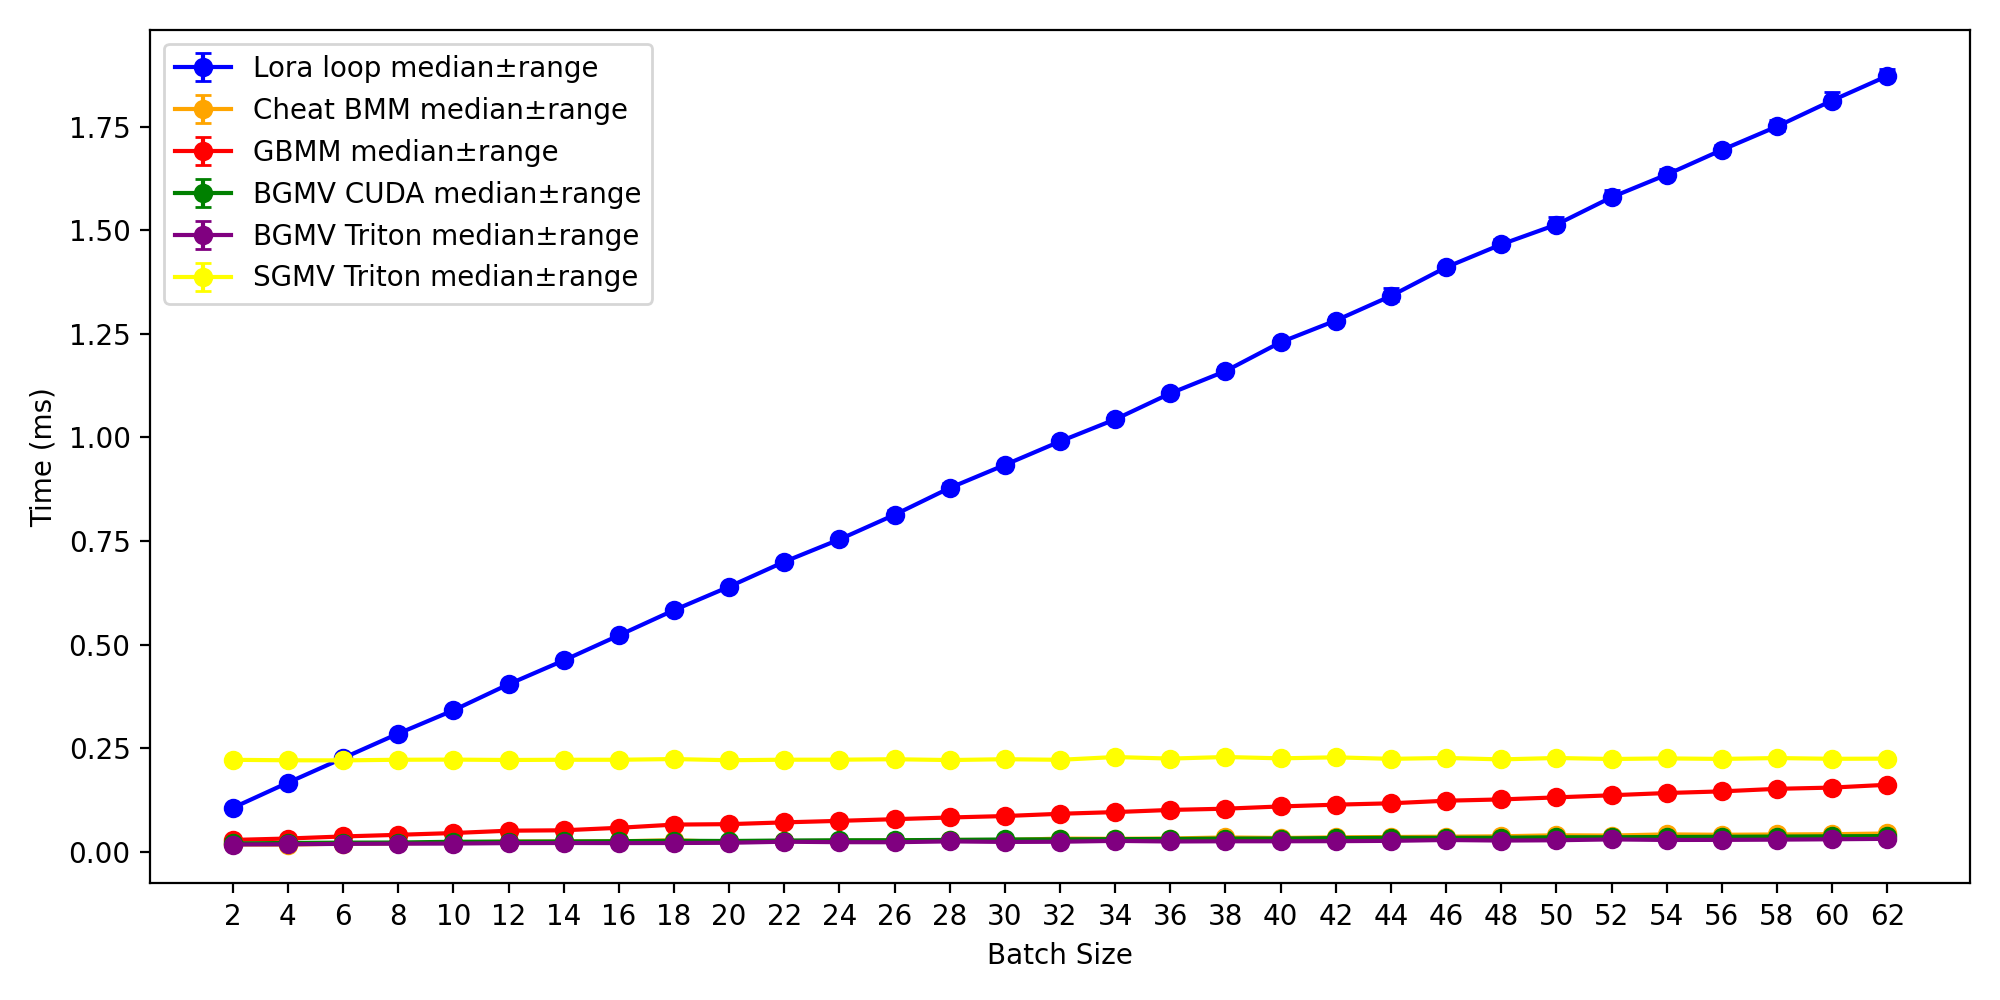
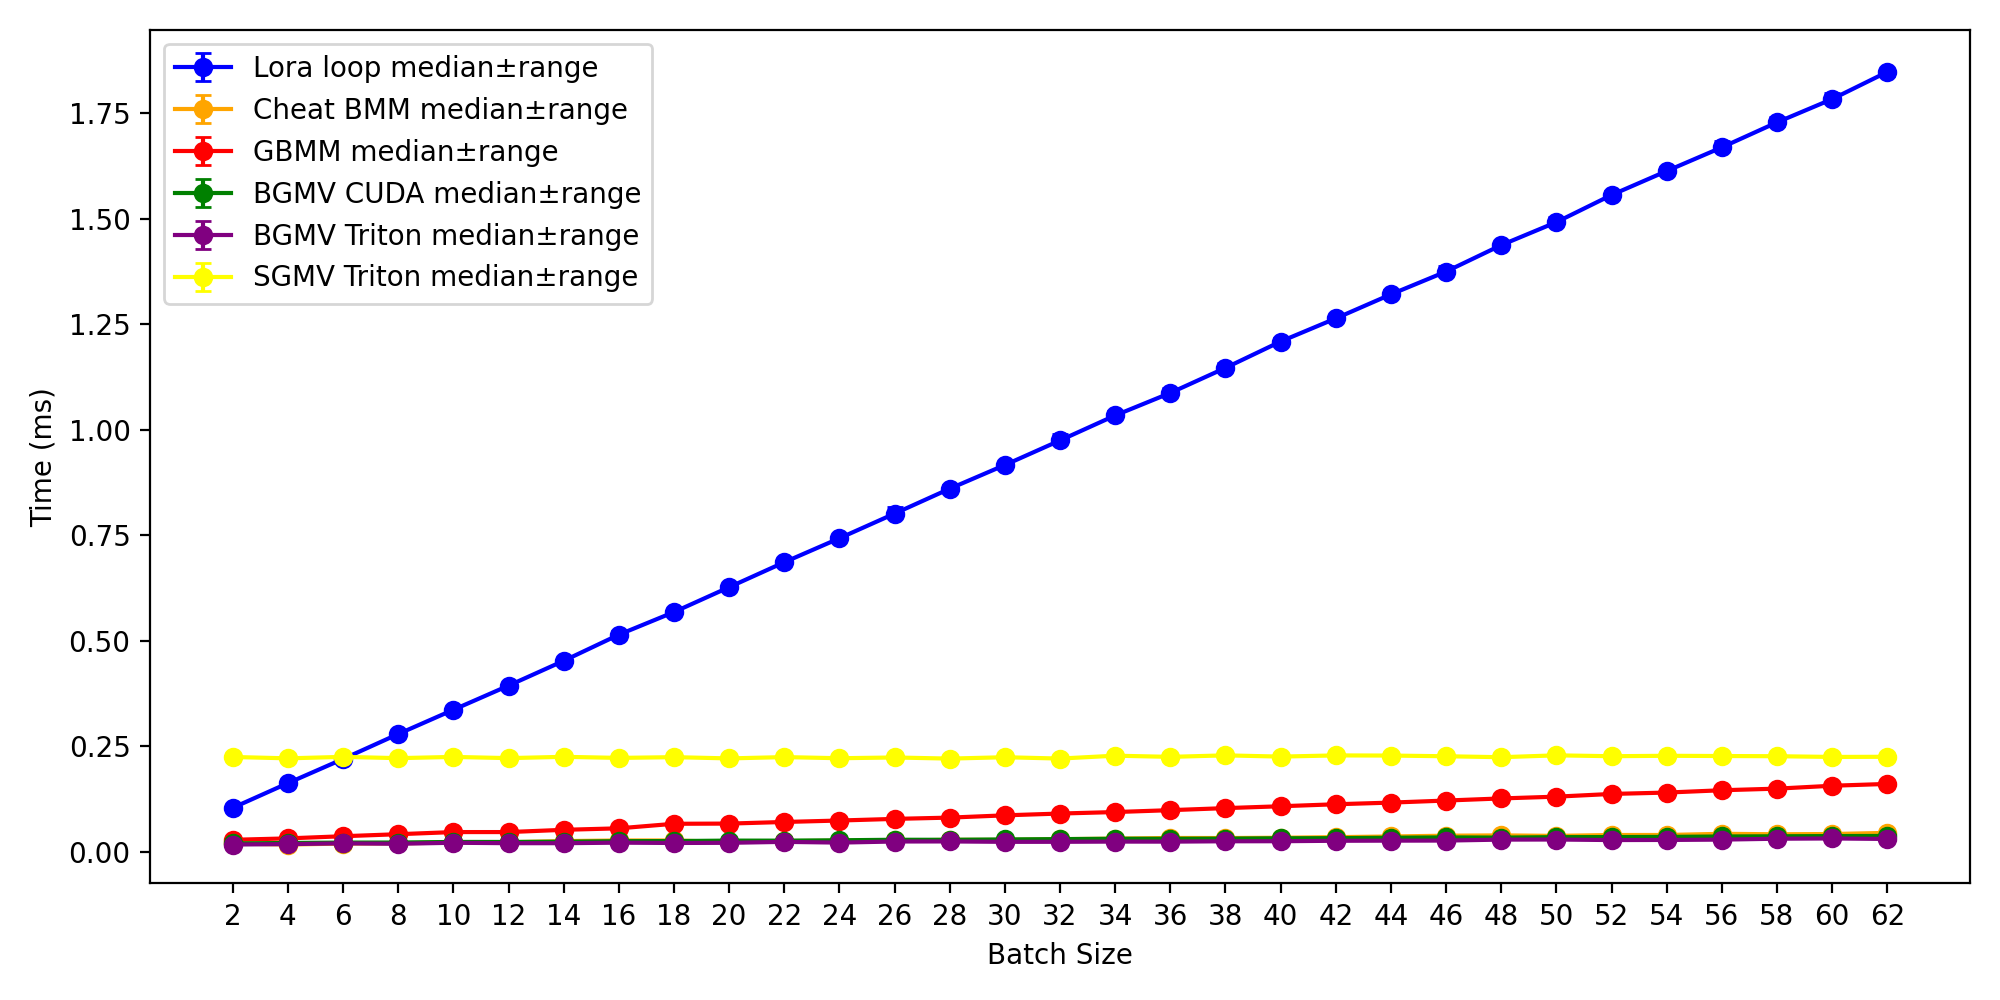
Update shrink kernel and plots

diff --git a/multilora_inference/sgmv_triton/run_sgmv_vllm.py b/multilora_inference/sgmv_triton/run_sgmv_vllm.py
@@ -1,0 +1,96 @@
+
+# SPDX-License-Identifier: Apache-2.0
+# Host-side test harness for sgmv_triton.sgmv_triton (no extra deps).
+#
+import torch
+import random
+import math
+import sgmv_triton as sgmv
+
+torch.manual_seed(0)
+random.seed(0)
+
+def _make_problem(batch=64, F_IN=1024, F_OUT=2048, R=16, num_layers=2, num_lora=8, seq_len=1, dtype=torch.float16):
+    device = 'cuda' if torch.cuda.is_available() else 'cpu'
+    N = batch if seq_len == 1 else batch * seq_len
+
+    # Stacks: T = num_lora * num_layers
+    T = num_lora * num_layers
+    A = torch.randn(T, F_IN, R, device=device, dtype=dtype)
+    B = torch.randn(T, F_OUT, R, device=device, dtype=dtype)
+
+    # Inputs
+    if seq_len == 1:
+        X = torch.randn(batch, F_IN, device=device, dtype=dtype)
+        Y = torch.zeros(batch, F_OUT, device=device, dtype=dtype)
+        # Choose indices with some sentinels
+        indices = torch.randint(0, num_lora + 1, (batch,), device=device, dtype=torch.int32)
+        indices_rows = indices  # [B]
+    else:
+        X = torch.randn(batch, seq_len, F_IN, device=device, dtype=dtype)
+        Y = torch.zeros(batch, seq_len, F_OUT, device=device, dtype=dtype)
+        indices = torch.randint(0, num_lora + 1, (batch,), device=device, dtype=torch.int32)
+        # Broadcast per-seq to rows
+        indices_rows = indices.repeat_interleave(seq_len)  # [B*seq_len]
+        X = X.reshape(batch * seq_len, F_IN)
+        Y = Y.reshape(batch * seq_len, F_OUT)
+
+    return X, Y, A, B, indices_rows, indices, device
+
+def _reference(Y, X, A, B, indices_rows, num_layers, layer_idx, num_lora, scale, accumulate):
+    # Compute reference on device in float32 for correctness
+    N, F_IN = X.shape
+    F_OUT = Y.shape[1]
+    T, Fin, R = A.shape
+    Y_ref = torch.zeros((N, F_OUT), dtype=torch.float32, device=X.device)
+    if accumulate:
+        Y_ref += Y.float()
+    for n in range(N):
+        aid = int(indices_rows[n].item())
+        if aid == num_lora:
+            continue  # sentinel => no contribution
+        key = aid * num_layers + layer_idx
+        z = torch.matmul(X[n].float(), A[key].float())  # [R]
+        y = torch.matmul(z, B[key].float().t())         # [F_OUT]
+        Y_ref[n] += scale * y
+    return Y_ref.to(dtype=Y.dtype)
+
+def run_demo():
+    # 2D tests
+    print("SGMV 2D (accumulate=False)")
+    X, Y, A, B, indices_rows, _, device = _make_problem(batch=64, F_IN=768, F_OUT=1536, R=32,
+                                                        num_layers=2, num_lora=8, seq_len=1, dtype=torch.float16)
+    Y0 = Y.clone()
+    sgmv.sgmv_triton(Y, X, A, B, indices_rows,
+                     num_layers=2, layer_idx=1, num_lora_adapters=8,
+                     scale=1.0, accumulate=False)
+    Y_ref = _reference(Y0, X, A, B, indices_rows, 2, 1, 8, 1.0, False)
+    err = (Y.float() - Y_ref.float()).abs().max().item()
+    print(f"max_err={err:.3e}")
+
+    print("SGMV 2D (accumulate=True)")
+    Y = Y0.clone()
+    # Add some base to test accumulate path
+    base = torch.randn_like(Y)
+    Y += base
+    Y_ref = base + _reference(Y0, X, A, B, indices_rows, 2, 1, 8, 1.0, False)
+    sgmv.sgmv_triton(Y, X, A, B, indices_rows,
+                     num_layers=2, layer_idx=1, num_lora_adapters=8,
+                     scale=1.0, accumulate=True)
+    err = (Y.float() - Y_ref.float()).abs().max().item()
+    print(f"max_err (accumulate)={err:.3e}\n")
+
+    # 3D test (seq_len > 1)
+    print("SGMV 3D (accumulate=False)")
+    X, Y, A, B, indices_rows, indices, device = _make_problem(batch=8, F_IN=512, F_OUT=1024, R=16,
+                                                              num_layers=3, num_lora=6, seq_len=5, dtype=torch.float16)
+    Y0 = Y.clone()
+    sgmv.sgmv_triton(Y, X, A, B, indices_rows,
+                     num_layers=3, layer_idx=0, num_lora_adapters=6,
+                     scale=0.5, accumulate=False)
+    Y_ref = _reference(Y0, X, A, B, indices_rows, 3, 0, 6, 0.5, False)
+    err = (Y.float() - Y_ref.float()).abs().max().item()
+    print(f"max_err 3D={err:.3e}")
+
+if __name__ == "__main__":
+    run_demo()

diff --git a/multilora_inference/sgmv_triton/sgmv_vllm_impl.py b/multilora_inference/sgmv_triton/sgmv_vllm_impl.py
@@ -1,0 +1,97 @@
+import torch
+
+from vllm.lora.punica_wrapper.punica_gpu import PunicaWrapperGPU
+from vllm.lora.layers import LoRAMapping
+
+# ----- Shapes and basic config -----
+device = "cuda"
+num_tokens = 128
+input_dim = 4096
+out_dim = 4096
+rank = 16
+
+num_loras = 7                 # number of adapters
+max_loras = 8                 # capacity; can be >= num_loras
+batch_size = num_tokens       # treat each token as a "row" to map to a LoRA
+max_batches = 1               # for logits/prompt metadata; not used here
+vocab_size = 0                # not used for linear path; safe to set 0
+extra_vocab_size = 0          # not used for linear path; safe to set 0
+scale = 1.0                   # typical LoRA uses alpha/r; set as needed
+
+# ----- Inputs/Outputs -----
+# x: [num_tokens, input_dim] fp16/bf16 (must match lora_a dtype)
+x = torch.randn(num_tokens, input_dim, device=device, dtype=torch.float16)
+# y: [num_tokens, out_dim] (accumulate result in-place)
+y = torch.zeros(num_tokens, out_dim, device=device, dtype=torch.float16)
+
+# ----- Prepare LoRA weights (single slice) -----
+# A_i: [rank, input_dim], B_i: [out_dim, rank]
+A_list = [torch.randn(rank, input_dim, device=device, dtype=torch.float16) for _ in range(num_loras)]
+B_list = [torch.randn(out_dim, rank, device=device, dtype=torch.float16) for _ in range(num_loras)]
+
+# Stack adapters along dim 0: [num_loras, rank, input_dim] and [num_loras, out_dim, rank]
+A = torch.stack(A_list, dim=0).contiguous()
+B = torch.stack(B_list, dim=0).contiguous()
+
+# Each “slice” is one weight matrix. Single-slice case => length-1 tuples.
+lora_a_stacked = (A,)  # [num_loras, rank, input_dim]
+lora_b_stacked = (B,)  # [num_loras, out_dim, rank]
+output_slices = (out_dim,)  # single slice outputs whole out_dim
+
+# ----- Token→LoRA mapping -----
+# LoRA IDs must be > 0 to be considered active; -1 means no LoRA.
+# Define IDs [1..num_loras], and map tokens to those IDs (or -1).
+lora_ids = [i + 1 for i in range(num_loras)]  # IDs: 1..7
+# Map index->id for all slots up to max_loras; keep trailing None if capacity > num_loras
+lora_index_to_id = lora_ids + [None] * (max_loras - len(lora_ids))
+
+# Example: round-robin assign tokens to adapters (change as needed)
+token_lora_ids = [lora_ids[t % num_loras] for t in range(num_tokens)]
+# If you want some tokens to use no LoRA, set to -1 for those positions:
+# token_lora_ids[k] = -1
+
+# Build mapping; for generation/SGMV path use is_prefill=False and
+# set prompt_mapping same as index_mapping.
+mapping = LoRAMapping(
+    index_mapping=tuple(token_lora_ids),
+    prompt_mapping=(token_lora_ids[0],),
+    is_prefill=False,
+)
+
+# ----- Construct wrapper and prepare metadata -----
+wrapper = PunicaWrapperGPU(
+    max_num_batched_tokens=num_tokens,
+    max_batches=max_batches,
+    device=device,
+    max_loras=max_loras,
+)
+
+wrapper.update_metadata(
+    mapping=mapping,
+    lora_index_to_id=lora_index_to_id,
+    max_loras=max_loras,
+    vocab_size=vocab_size,
+    extra_vocab_size=extra_vocab_size,
+)
+
+y_orig = y.clone()
+# ----- Run SGMV for a single linear weight -----
+# This internally performs:
+#  - shrink: buffer = (x @ A) * scale  -> [1, num_tokens, rank] in fp32
+#  - expand: y += buffer @ B           -> [num_tokens, out_dim], add_inputs=True adds residual if provided
+wrapper.add_lora_linear(
+    y=y,
+    x=x,
+    lora_a_stacked=lora_a_stacked,
+    lora_b_stacked=lora_b_stacked,
+    lora_bias_stacked=None,            # or a tuple like (bias_tensor,) shaped [num_loras, out_dim]
+    scale=scale,
+    output_slices=output_slices,
+    buffer=None,                       # optional; let it allocate [1, num_tokens, rank] fp32
+)
+
+print(y)
+
+print(y - y_orig)
+# y now contains the LoRA contribution added in-place.
+# If you want the pure LoRA delta, initialize y=zeros and keep add_inputs=True (default).

diff --git a/multilora_inference/sgmv_triton/api.py b/multilora_inference/sgmv_triton/api.py
@@ -21,11 +21,11 @@ def lora_sgmv_triton(
         indices = indices.repeat_interleave(X.shape[1])
     indices = indices.contiguous()
 
-    # Flatten inputs
+    # Flatten inputs (LoRA weights already contiguous from loading)
     X_shape = X.shape
     Y_shape = Y.shape
-    X = X.reshape(-1, X_shape[-1])
-    Y = Y.reshape(-1, Y_shape[-1])
+    X = X.view(-1, X_shape[-1])
+    Y = Y.view(-1, Y_shape[-1])
 
     # Calculate the token_indices_sorted_by_lora_ids, num_tokens_per_lora, lora_token_start_loc
     num_tokens_per_lora = torch.zeros(num_lora_adapters + 1, dtype=indices.dtype, device=indices.device)

diff --git a/multilora_inference/sgmv_triton/sgmv_shrink_triton.py b/multilora_inference/sgmv_triton/sgmv_shrink_triton.py
@@ -166,7 +166,6 @@ def sgmv_shrink(
     scale,
 ):
     assert X_ptr.is_cuda and W_ptr.is_cuda and token_indices_sorted_by_lora_ids.is_cuda and num_tokens_per_lora.is_cuda and lora_token_start_loc.is_cuda
-    assert X_ptr.dtype == W_ptr.dtype
     assert X_ptr.is_contiguous() and W_ptr.is_contiguous() and Y_ptr.is_contiguous()
 
     # F_OUT is rank here
